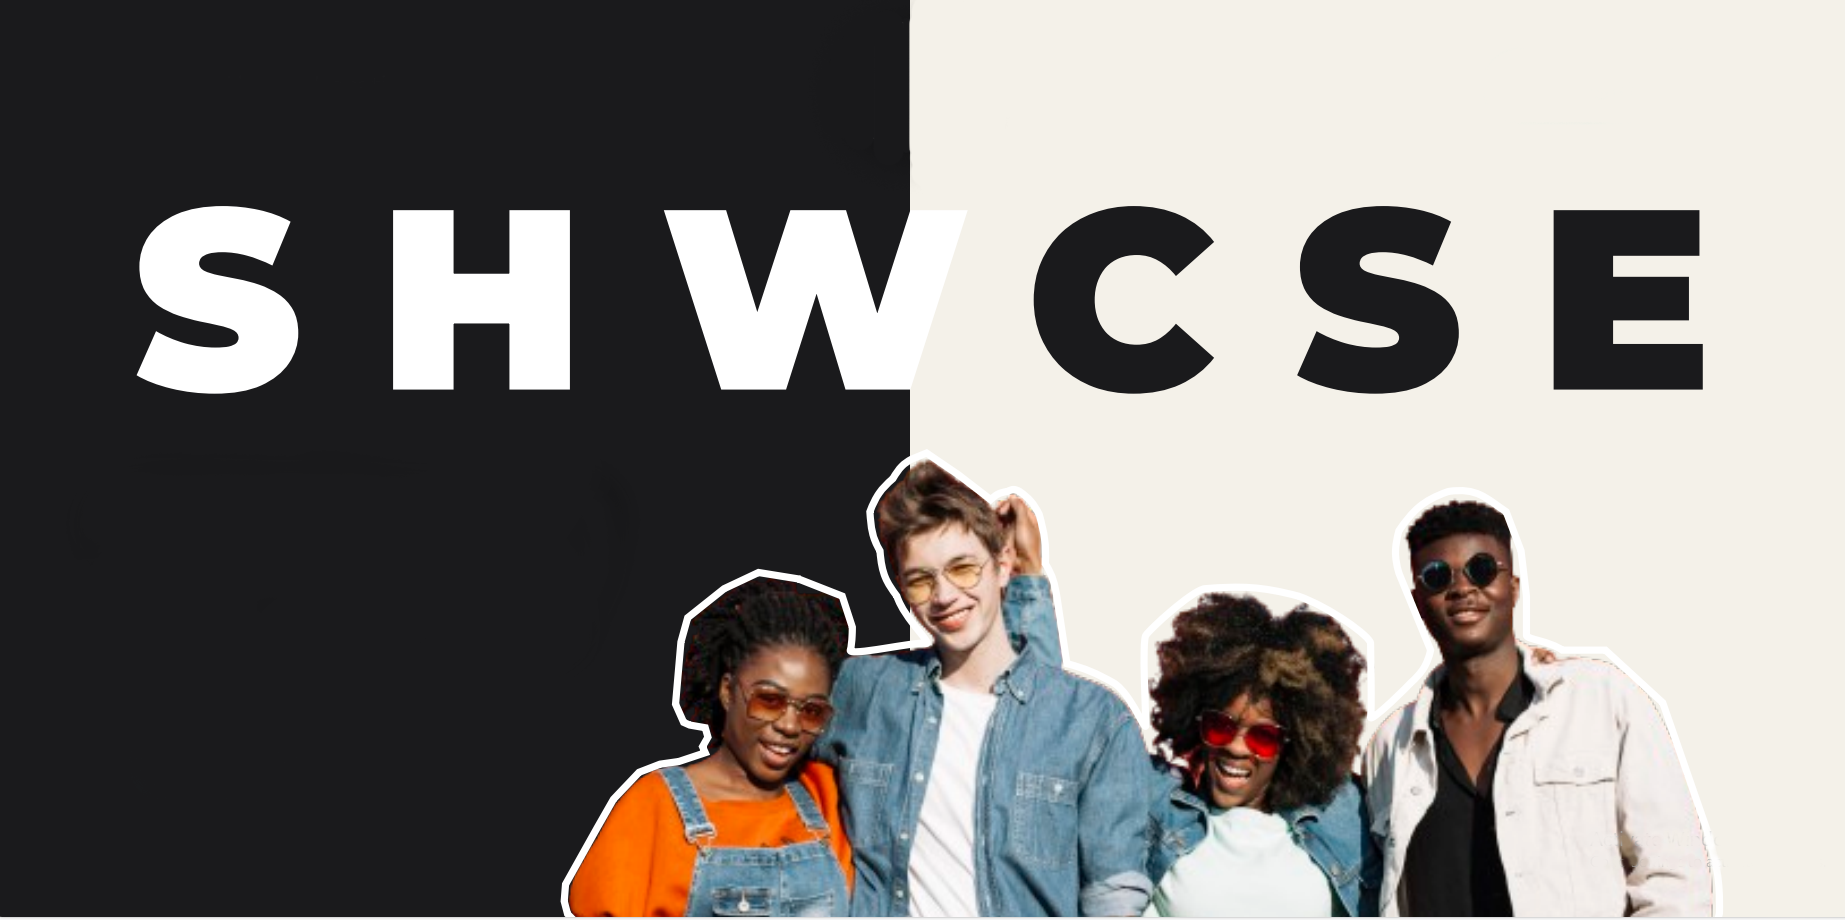
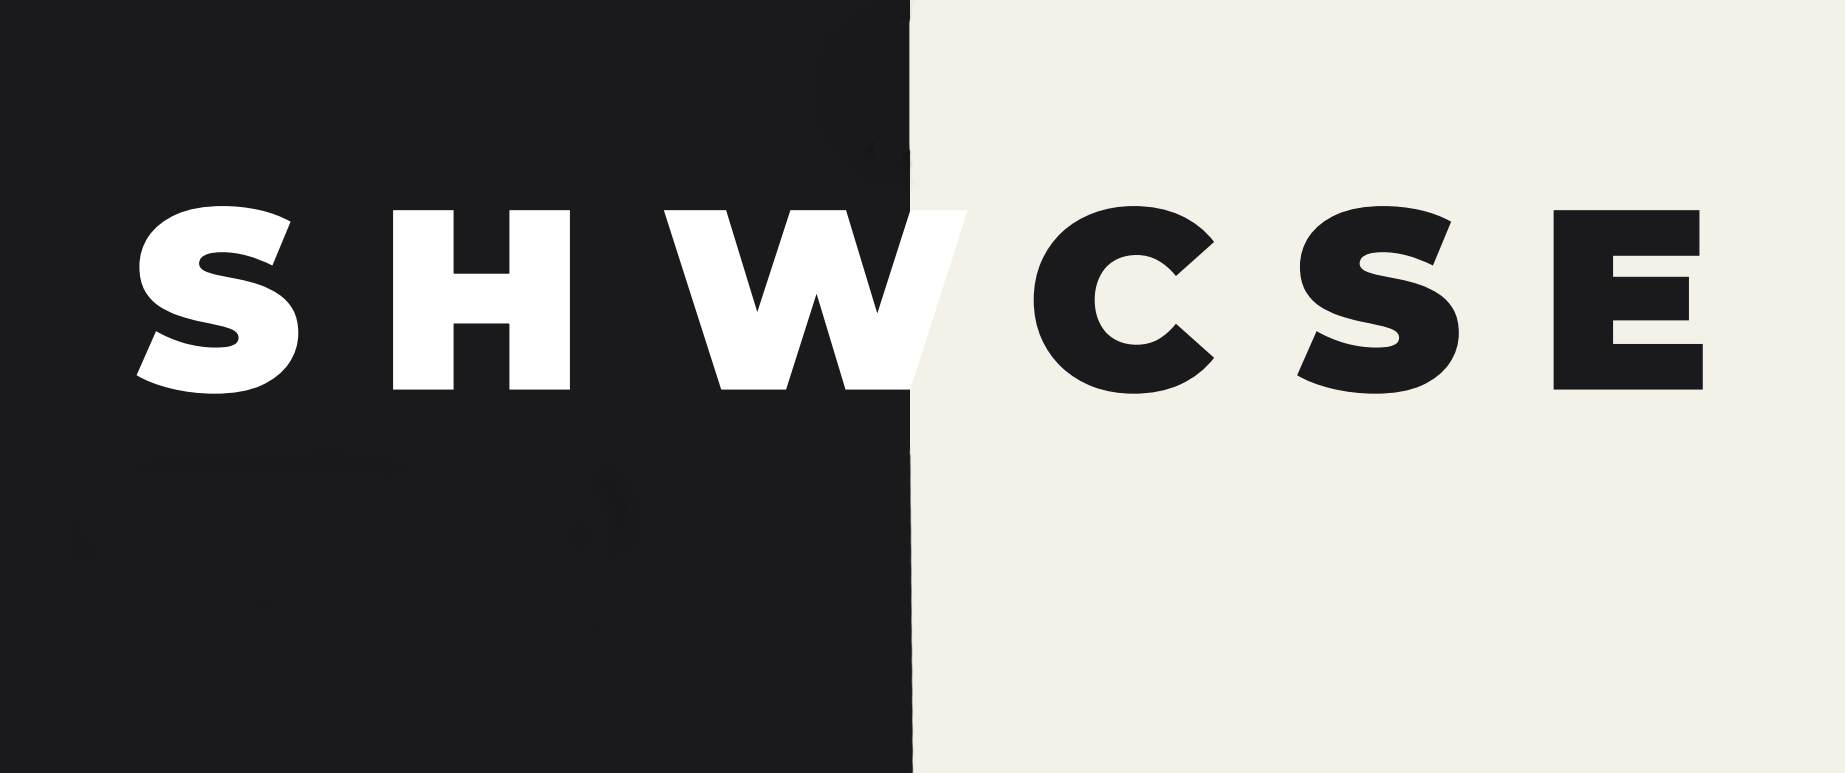
Final

diff --git a/src/components/CustomSection/CustomSection0.js b/src/components/CustomSection/CustomSection0.js
@@ -1,6 +1,7 @@
 import React from 'react';
 import css from './CustomSection0.module.css';
 
+import banner_mobile from '../../assets/banner_mobile.png';
 import w1 from '../../assets/banner.png';
 import logo from '../../assets/shwcselogo.PNG';
 import logo1 from '../../assets/logos/logo1.PNG';
@@ -10,6 +11,7 @@ import logo4 from '../../assets/logos/logo4.PNG';
 import logo5 from '../../assets/logos/logo5.PNG';
 import logo6 from '../../assets/logos/logo6.PNG';
 import logo7 from '../../assets/logos/logo7.PNG';
+import overlay_img from '../../assets/img_overlay.png';
 
 import { FontAwesomeIcon } from '@fortawesome/react-fontawesome'
 import { faMessage, faHeart, faSignIn, faEnvelope} from '@fortawesome/free-solid-svg-icons'
@@ -47,36 +49,40 @@ const CustomSectionComponent0 = props =>{
         <section>
             <div className={classNames(css.full_width , css.desktop)}>
                     <div className={css.container +' '+ css.textCenter}>
-                    <div style={{ backgroundImage:`url(${w1})` }} className={css.bg_h}>
-                    <NamedLink {...landingPageProps} ><img className={css.logo} src={logo}/></NamedLink>
-                        
+                    <div>
+                        <img className={css.resize} src={w1} />
+                        <img className={css.resize_overlay} src={overlay_img} />
+                        <NamedLink {...landingPageProps} ><img className={css.logo} src={logo}/></NamedLink>
+                            
 
-                        <div className={classNames(css.nav_menu)}>
-                            <NamedLink {...landingPageProps}>Home</NamedLink>
-                            <NamedLink {...landingPageProps}>About</NamedLink>
-                            <NamedLink {...landingPageProps}>Locations</NamedLink>
-                            <NamedLink {...landingPageProps}>Categories</NamedLink>
-                            <NamedLink {...landingPageProps}>Contact Us</NamedLink>
-                        </div>
-                        <div className={css.login_btn_div}>
-                            <NamedLink {...landingPageProps} className={css.login_btn}>Login</NamedLink>
-                        </div>
-
-                        <div className={css.hero}>
-
-                            <div className={css.caption}>
-                                <h3>
-                                    {title}
-                                </h3>
+                            <div className={classNames(css.nav_menu)}>
+                                <NamedLink {...landingPageProps}>Home</NamedLink>
+                                <NamedLink {...landingPageProps}>About</NamedLink>
+                                <NamedLink {...landingPageProps}>Locations</NamedLink>
+                                <NamedLink {...landingPageProps}>Categories</NamedLink>
+                                <NamedLink {...landingPageProps}>Contact Us</NamedLink>
                             </div>
-                            <div className={css.action_btn_div}>
-                                <NamedLink {...landingPageProps} className={css.action_btn2}>{callToActionText}</NamedLink>
+                            <div className={css.login_btn_div}>
+                                <NamedLink {...landingPageProps} className={css.login_btn}>Login</NamedLink>
                             </div>
-                        </div>
+
+                            <div className={css.hero}>
+
+                                <div className={css.caption}>
+                                    <h3>
+                                        {title}
+                                    </h3>
+                                </div>
+                                
+                            </div>
+                          
 
                     </div>
-                </div>;
 
+                </div>
+                <div className={css.action_btn_div}>
+                        <NamedLink {...landingPageProps} className={css.action_btn2}>{callToActionText}</NamedLink>
+                </div>
                 <div className={css.container_partners}>
                     
                         <div className="slide"><img src={logo1}/></div>
@@ -91,7 +97,7 @@ const CustomSectionComponent0 = props =>{
             </div>
 
             <div className={css.mobile}>
-                <img className={css.resize} src={w1} />
+                <img className={css.resize} src={banner_mobile} />
 
                 <div className={classNames(css.mag_y_50 , css.pad_50)}>
                     <h2>

diff --git a/src/components/CustomSection/CustomSection0.module.css b/src/components/CustomSection/CustomSection0.module.css
@@ -18,12 +18,19 @@
   display: flex;
   flex-direction: column;
   justify-content: space-between;
-  bottom: 15%;
+  bottom: 50px;
   width: 450px;
-  height: 300px;
+  height: fit-content;
   left: 7%;
   align-items: flex-start;
   align-content: flex-start;
+}
+
+.action_btn_div{
+  position: relative;
+  float: left;
+  height: fit-content;
+  margin: 50px 7%;
 }
 
 .container_partners{
@@ -81,7 +88,7 @@
 }
 
 .pad_50{
-  padding: 0px 20px 50px 20px;
+  padding: 0px 20px 0px 20px;
 }
 
 .caption{
@@ -392,6 +399,18 @@ h1,h2,h3,h4{
 .resize{
   width: 100%;
   height: auto;
+  margin: 0px;
+  padding: 0px;
+}
+
+.resize_overlay{
+  position: absolute;
+  bottom: 0px;
+  right: 7%;
+  width: 40%;
+  height: auto;
+  margin: 0px;
+  padding: 0px;
 }
 
   .center_item{
@@ -1043,7 +1062,10 @@ section{
  
   bottom: 15%;
   width: 300px;
-  height: 200px;
+  
+  bottom: 50px;
+  width: 450px;
+  height: fit-content;
   left: 7%;
   align-items: flex-start;
   align-content: flex-start;
@@ -1058,6 +1080,12 @@ section{
   gap: 10px;
   width: 50%;
   padding: 70px 100px 70px 150px;
+}
+
+a {
+  color: #FFFFFF;
+  font-size: 16px;
+  font-weight: 200;
 }
 
 }
@@ -1103,7 +1131,10 @@ section{
  
   bottom: 15%;
   width: 300px;
-  height: 200px;
+  
+  bottom: 50px;
+  
+  height: fit-content;
   left: 7%;
   align-items: flex-start;
   align-content: flex-start;
@@ -1118,6 +1149,12 @@ section{
   gap: 10px;
   width: 50%;
   padding: 70px 100px 70px 150px;
+}
+
+a {
+  color: #FFFFFF;
+  font-size: 16px;
+  font-weight: 200;
 }
 
 }
@@ -1164,7 +1201,10 @@ section{
  
   bottom: 15%;
   width: 300px;
-  height: 200px;
+  
+  bottom: 50px;
+ 
+  height: fit-content;
   left: 7%;
   align-items: flex-start;
   align-content: flex-start;
@@ -1179,6 +1219,12 @@ section{
   gap: 10px;
   width: 50%;
   padding: 70px 100px 70px 150px;
+}
+
+a {
+  color: #FFFFFF;
+  font-size: 16px;
+  font-weight: 200;
 }
 
 }
@@ -1199,10 +1245,10 @@ section{
     align-items: center;
     width: 100%;
 
-    height:300px;
+    height:250px;
     margin: 0px;
     padding: 0px;
-    
+    margin-top: 180px;
 
    
   }
@@ -1232,6 +1278,12 @@ section{
    
   .action_btn2{
     padding: 10px 30px;
+  }
+
+  a {
+    color: #FFFFFF;
+    font-size: 16px;
+    font-weight: 200;
   }
  
 
@@ -1287,7 +1339,11 @@ section{
     padding: 10px 30px;
   }
  
-
+  a {
+    color: #FFFFFF;
+    font-size: 16px;
+    font-weight: 200;
+  }
  
  }
  

diff --git a/src/components/CustomSection/CustomSection2.js b/src/components/CustomSection/CustomSection2.js
@@ -2,7 +2,7 @@ import React from 'react';
 import css from './CustomSection2.module.css';
 
 import img3 from '../../assets/img3.PNG';
-import img4 from '../../assets/img4.PNG';
+import img4 from '../../assets/img4a.PNG';
 import img5 from '../../assets/img5.PNG';
 import img6 from '../../assets/img6.PNG';
 import img7 from '../../assets/img7.PNG';
@@ -29,7 +29,7 @@ const CustomSectionComponent2 = props =>{
         <div className={css.flex_row_normal}>
             <img className={css.margin_top_small} src={slidder}/>
             <h1 className={classNames( css.show, css.text_no_wrap)}>
-              Locations?
+              Locations
             </h1>
             
         </div>
@@ -71,7 +71,7 @@ const CustomSectionComponent2 = props =>{
 
       <div className={classNames(css.mobile,css.mag_t_50)}>
             <h1>
-                Locations?
+                Locations
             </h1>
             <img className={css.h_20}  src={slidder}/>
           <div className={classNames(css.img_con)}>

diff --git a/src/components/CustomSection/Carousel.js b/src/components/CustomSection/Carousel.js
@@ -47,7 +47,7 @@ const Carousel = () => {
       <div className={classNames(css.pad5,css.mobile)}>
 
             <h1>
-              Locations?
+              Categories?
             </h1>
             <img className={css.h_20}  src={slidder}/>
             <div className={css.control}>

diff --git a/src/components/CustomSection/CustomSection2.module.css b/src/components/CustomSection/CustomSection2.module.css
@@ -88,6 +88,7 @@
 .resize_image{
     width: 100%;
     height: 360px;
+    border-radius: 20px;
 }
 
 .show{
